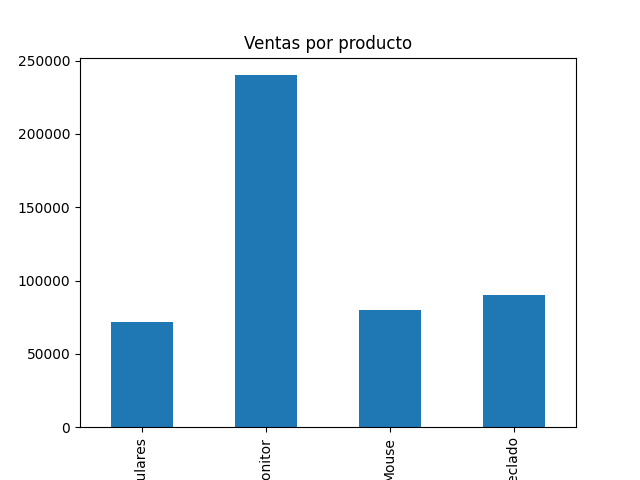
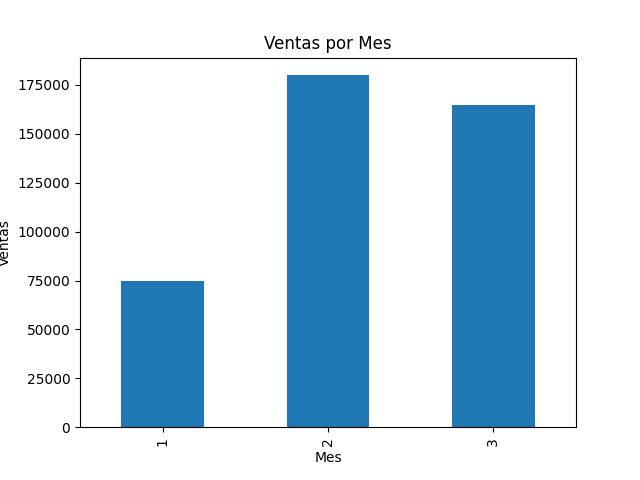
PROY-2: Agregar analisis de ventas y grafico

diff --git a/scripts/analisis_ventas.py b/scripts/analisis_ventas.py
@@ -3,31 +3,41 @@ import pandas as pd
 import matplotlib.pyplot as plt
 
 # Leer archivo CSV
-datos = pd.read_csv("datos/ventas.csv")
+df = pd.read_csv("datos/ventas.csv")
 
 # Crear columna total
-datos["total"] = datos["cantidad"] * datos["precio"]
+df["total"] = df["cantidad"] * df["precio"]
 
-# Calcular ventas totales
-ventas_totales = datos["total"].sum()
+# Ventas totales
+ventas_totales = df["total"].sum()
 
 # Producto más vendido
-producto_mas_vendido = datos.groupby("producto")["cantidad"].sum().idxmax()
+producto_mas_vendido = df.groupby("producto")["cantidad"].sum().idxmax()
+
+# Convertir fecha
+df["fecha"] = pd.to_datetime(df["fecha"])
+
+# Crear columna mes
+df["mes"] = df["fecha"].dt.month
+
+# Ventas por mes
+ventas_por_mes = df.groupby("mes")["total"].sum()
 
 # Mostrar resultados
 print("Ventas totales:", ventas_totales)
 print("Producto más vendido:", producto_mas_vendido)
 
-# Ventas por producto
-ventas_producto = datos.groupby("producto")["total"].sum()
+print("\nVentas por mes:")
+print(ventas_por_mes)
 
 # Crear gráfico
-ventas_producto.plot(kind="bar")
+ventas_por_mes.plot(kind="bar")
 
-# Título
-plt.title("Ventas por producto")
+plt.title("Ventas por Mes")
+plt.xlabel("Mes")
+plt.ylabel("Ventas")
 
 # Guardar gráfico
 plt.savefig("resultados/grafico_ventas.png")
 
-print("Gráfico guardado en resultados/")
+print("\nGráfico guardado en resultados/")